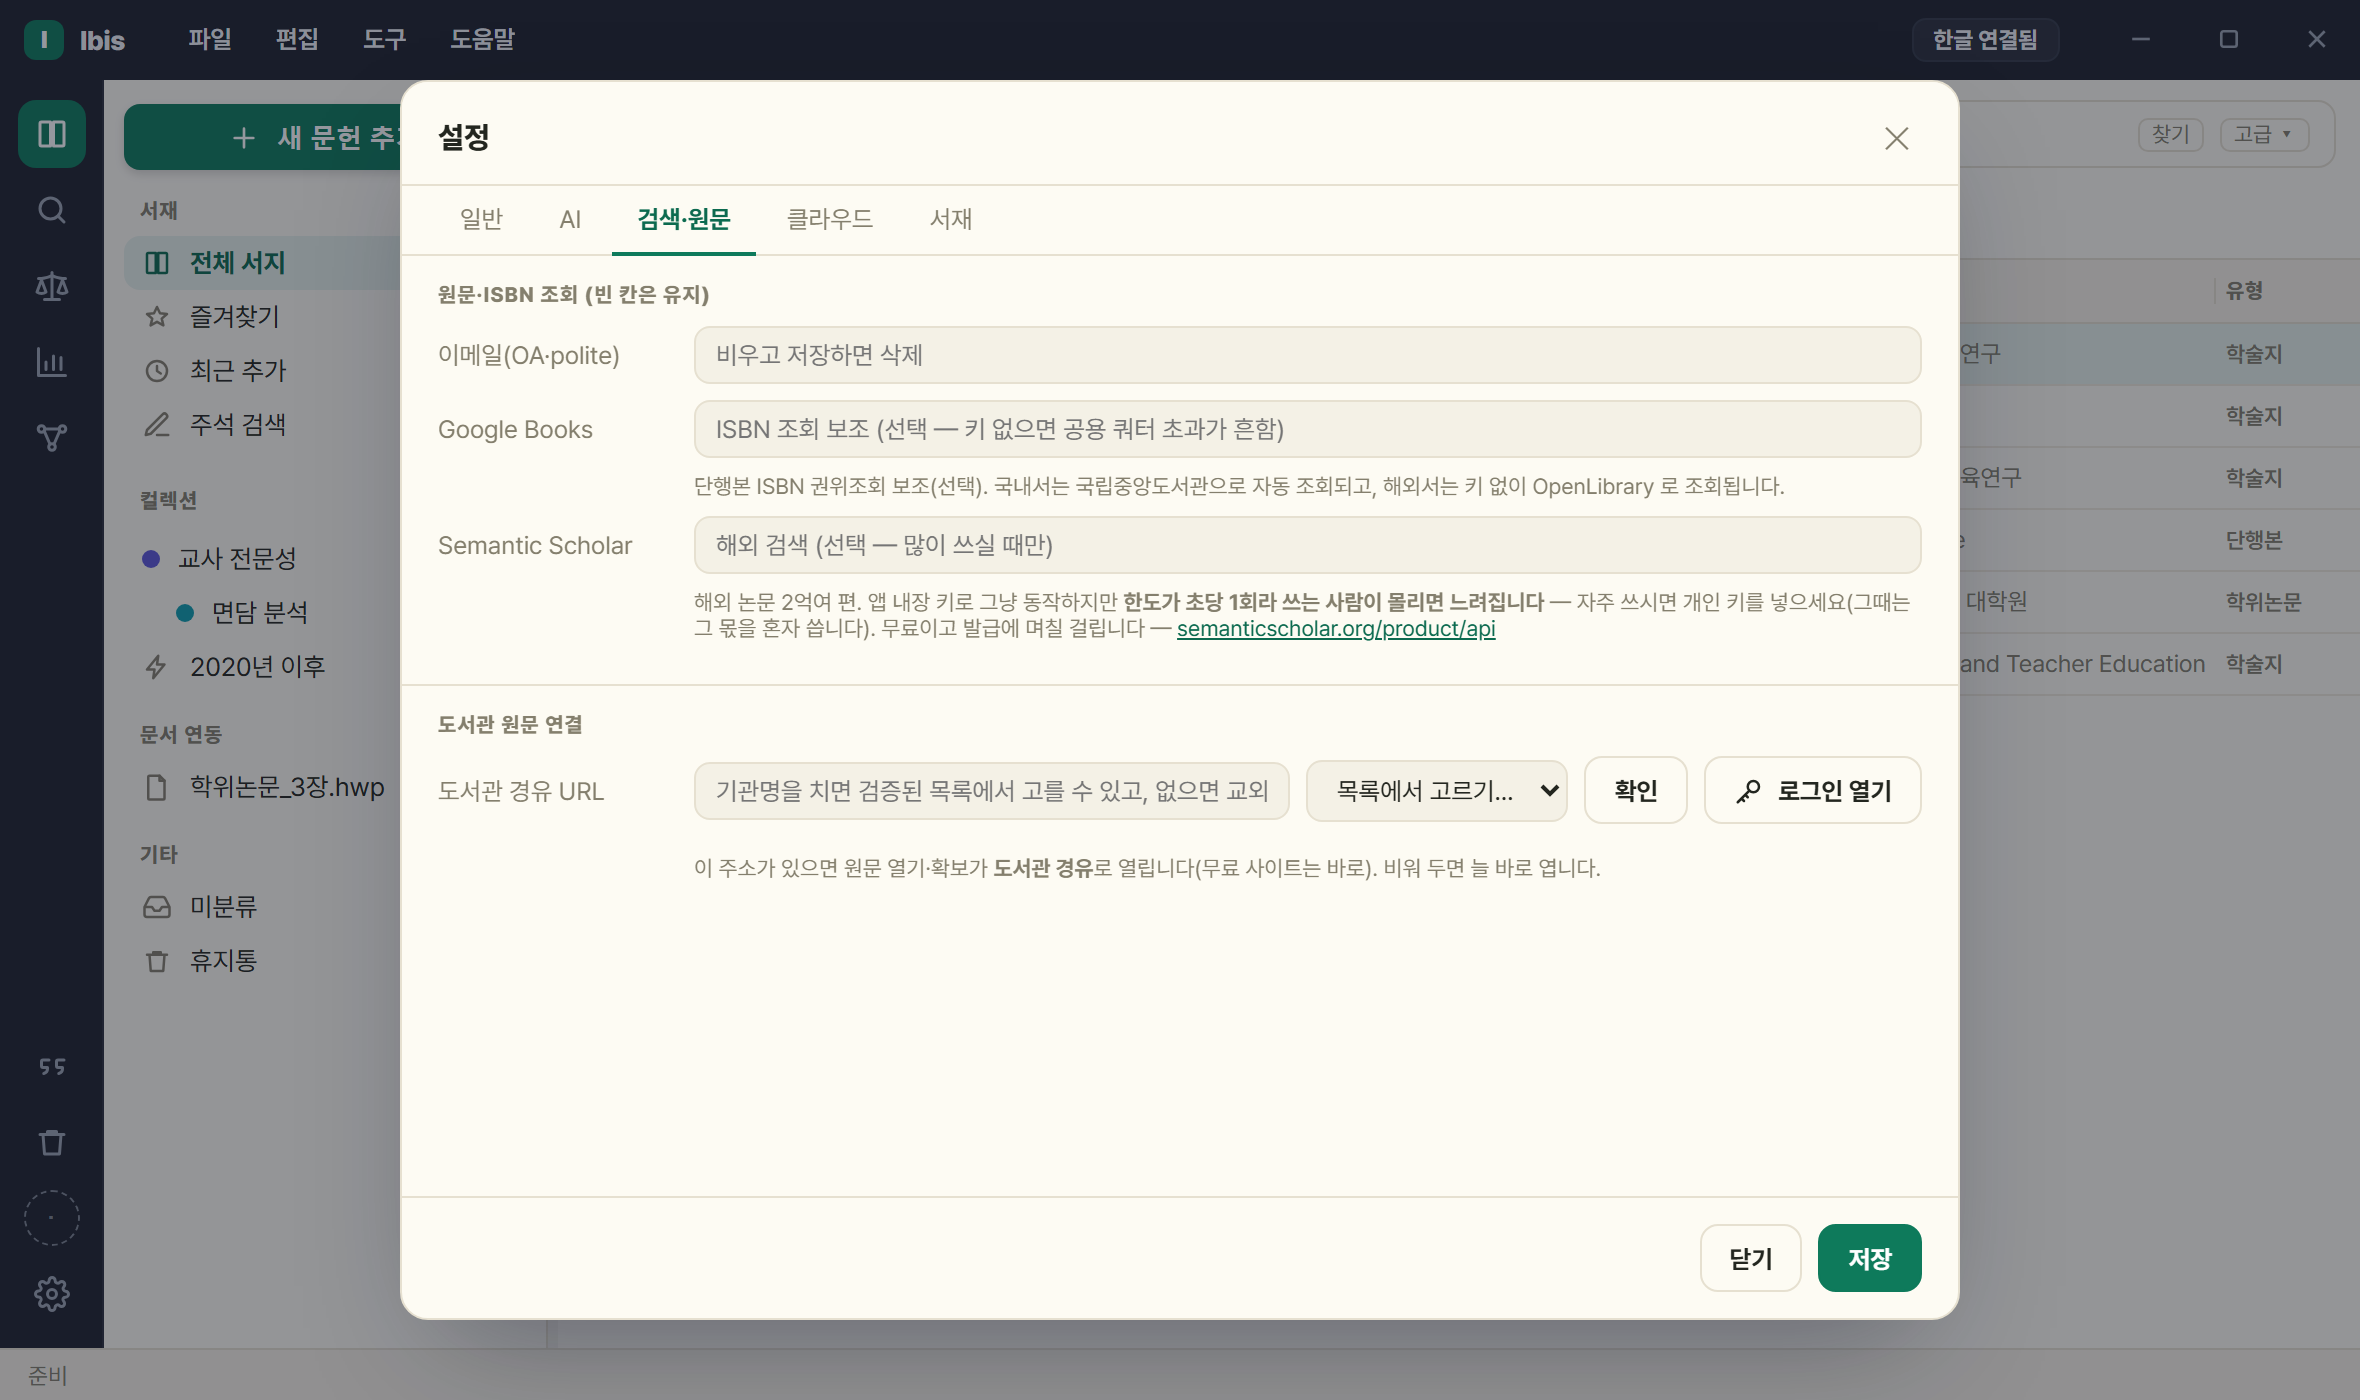
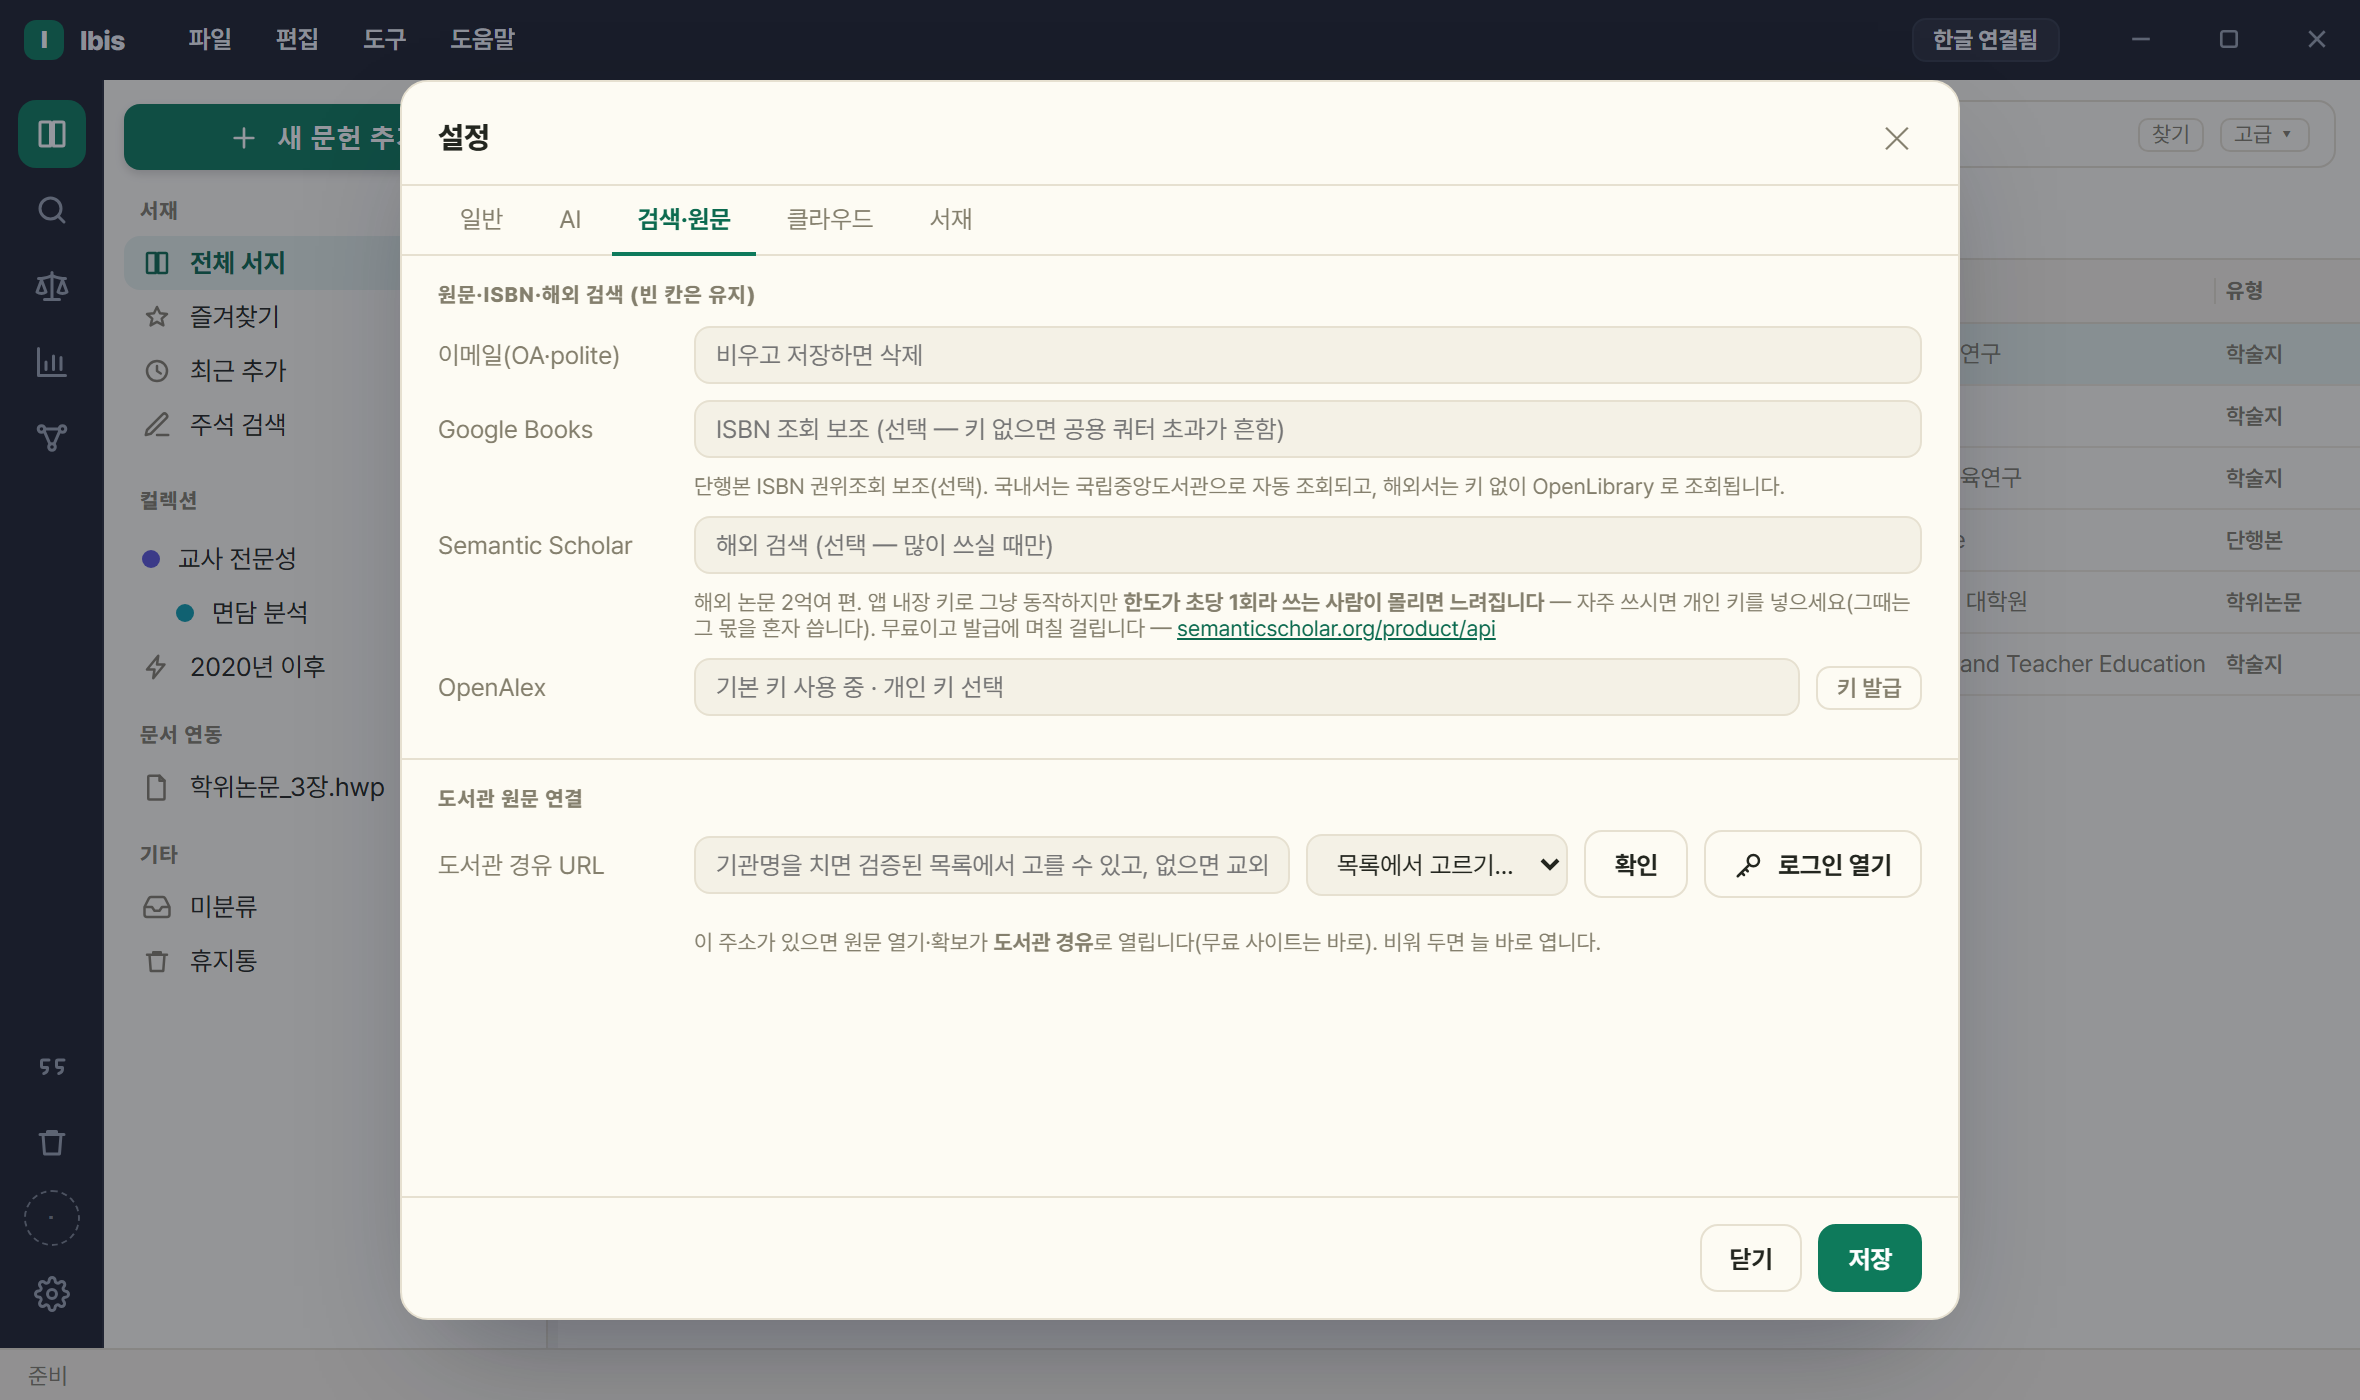
2026.9.22.2 OpenAlex 기본 연결과 종료 개선 안내

diff --git a/docs/FAQ.md b/docs/FAQ.md
@@ -2,13 +2,19 @@
 
 ### 2026.9.18·2026.9.19 사용자: 앱 내 자동 업데이트를 사용하지 마세요
 
-해당 버전은 업데이트 중 앱이 종료되지 않고 최소화되어, 자동 업데이트가 완료되지 않는 결함이 있습니다. **[새 설치 파일 받기 — Windows용 setup.exe](https://github.com/dodaseo/ibis-releases/releases/download/v2026.9.22.1/Ibis-2026.9.22.1-setup.exe)**로 업데이트해 주세요.
+해당 버전은 업데이트 중 앱이 종료되지 않고 최소화되어, 자동 업데이트가 완료되지 않는 결함이 있습니다. **[새 설치 파일 받기 — Windows용 setup.exe](https://github.com/dodaseo/ibis-releases/releases/download/v2026.9.22.2/Ibis-2026.9.22.2-setup.exe)**로 업데이트해 주세요.
 
 1. 위 링크에서 설치 파일을 내려받습니다.
 2. 실행 중인 Ibis를 모두 **파일 › 종료**로 끝냅니다. 해당 버전의 **×는 최소화이며 종료가 아닙니다.**
 3. 내려받은 `setup.exe`를 실행합니다. 기존 Ibis를 먼저 제거할 필요는 없으며, **기존 서재와 PDF는 유지됩니다.**
 
 **이미 업데이트 창에서 멈췄고 파일 메뉴에 접근할 수 없다면:** PC를 다시 시작한 뒤, Ibis를 열기 전에 내려받은 설치 파일을 실행하세요. 서재 폴더를 삭제하거나 새 서재를 만들 필요가 없습니다.
+
+## 2026.9.22.2 변경 사항
+
+- OpenAlex는 별도 키 등록 없이 기본 키로 검색합니다. 설정 › 검색·원문에서 개인 키를 등록하면 그 키를 우선합니다.
+- 파일 › 종료 후 검색 작업이 남아 Ibis 프로세스가 끝나지 않던 문제를 보완했습니다. 일반 종료와 트레이 복원 후 종료, 지연 검색 중 종료를 검증했습니다.
+- 기존 서재·메모·PDF와 설정은 유지됩니다.
 
 ## 2026.9.22.1 변경 사항
 
@@ -26,7 +32,7 @@
 
 
 
-한국 연구자를 위한 서지·인용 관리 앱 **Ibis** 자주 묻는 질문. 기준 버전 **2026.9.22.1** (2026-09-29).
+한국 연구자를 위한 서지·인용 관리 앱 **Ibis** 자주 묻는 질문. 기준 버전 **2026.9.22.2** (2026-09-29).
 
 - **국내 학술 검색 → 원문 확보 → AI 분석 → 태그 그래프**까지 한 프로그램에서 합니다.
 - 한글(HWP)·Word 본문 인용 삽입(CWYW)도 그중 한 기능입니다.
@@ -115,8 +121,8 @@
 **Q. API 키 없이 쓸 수 있나요?**
 
 - 됩니다. 검색·인용 삽입·서지 관리 모두 키 불필요.
-- 학술 DB 9종(KCI·ScienceON·국립중앙도서관·OpenAlex·Crossref·ERIC·arXiv·PubMed·S2)과 법·정책 5갈래(법제처·국회도서관)가 모두 앱 내장 키로 동작하며, ⚙설정에 입력 칸이 없습니다.
-- 선택 칸 셋만 남았습니다 — 이메일(OA·polite) · Google Books · Semantic Scholar 개인 키. 없어도 다 됩니다.
+- 국내 학술 DB와 법·정책 DB는 내장 키로, 해외 DB는 무키 또는 기본 키로 사용합니다. 별도 키 등록은 필요하지 않습니다.
+- 이메일(OA·polite)·Google Books·Semantic Scholar·OpenAlex 개인 키는 선택 사항입니다. OpenAlex·S2의 기본 키 한도는 사용자들이 공유하며, 개인 키를 등록하면 그 키를 우선합니다.
 
 **Q. 데이터와 API 키는 어디에 저장되나요? 클라우드에 올라가나요?**
 
@@ -877,7 +883,7 @@
 
 **Q. '이메일(OA·polite)' 칸은 무슨 키인가요?**
 
-- 발급 키가 아니라 **Unpaywall 조회 + Crossref/OpenAlex polite pool 등록용 이메일**.
+- 발급 키가 아니라 **Unpaywall 조회 + Crossref polite pool 등록용 이메일**.
 - 필수는 아니지만 OA 자동 확보 품질을 위해 권장.
 
 **Q. 도구에 있던 '서재' 가 안 보여요.**

diff --git a/README.md b/README.md
@@ -2,13 +2,19 @@
 
 ### 2026.9.18·2026.9.19 사용자: 앱 내 자동 업데이트를 사용하지 마세요
 
-해당 버전은 업데이트 중 앱이 종료되지 않고 최소화되어, 자동 업데이트가 완료되지 않는 결함이 있습니다. **[새 설치 파일 받기 — Windows용 setup.exe](https://github.com/dodaseo/ibis-releases/releases/download/v2026.9.22.1/Ibis-2026.9.22.1-setup.exe)**로 업데이트해 주세요.
+해당 버전은 업데이트 중 앱이 종료되지 않고 최소화되어, 자동 업데이트가 완료되지 않는 결함이 있습니다. **[새 설치 파일 받기 — Windows용 setup.exe](https://github.com/dodaseo/ibis-releases/releases/download/v2026.9.22.2/Ibis-2026.9.22.2-setup.exe)**로 업데이트해 주세요.
 
 1. 위 링크에서 설치 파일을 내려받습니다.
 2. 실행 중인 Ibis를 모두 **파일 › 종료**로 끝냅니다. 해당 버전의 **×는 최소화이며 종료가 아닙니다.**
 3. 내려받은 `setup.exe`를 실행합니다. 기존 Ibis를 먼저 제거할 필요는 없으며, **기존 서재와 PDF는 유지됩니다.**
 
 **이미 업데이트 창에서 멈췄고 파일 메뉴에 접근할 수 없다면:** PC를 다시 시작한 뒤, Ibis를 열기 전에 내려받은 설치 파일을 실행하세요. 서재 폴더를 삭제하거나 새 서재를 만들 필요가 없습니다.
+
+## 2026.9.22.2 변경 사항
+
+- OpenAlex는 별도 키 등록 없이 기본 키로 검색합니다. 설정 › 검색·원문에서 개인 키를 등록하면 그 키를 우선합니다.
+- 파일 › 종료 후 검색 작업이 남아 Ibis 프로세스가 끝나지 않던 문제를 보완했습니다. 일반 종료와 트레이 복원 후 종료, 지연 검색 중 종료를 검증했습니다.
+- 기존 서재·메모·PDF와 설정은 유지됩니다.
 
 ## 2026.9.22.1 변경 사항
 
